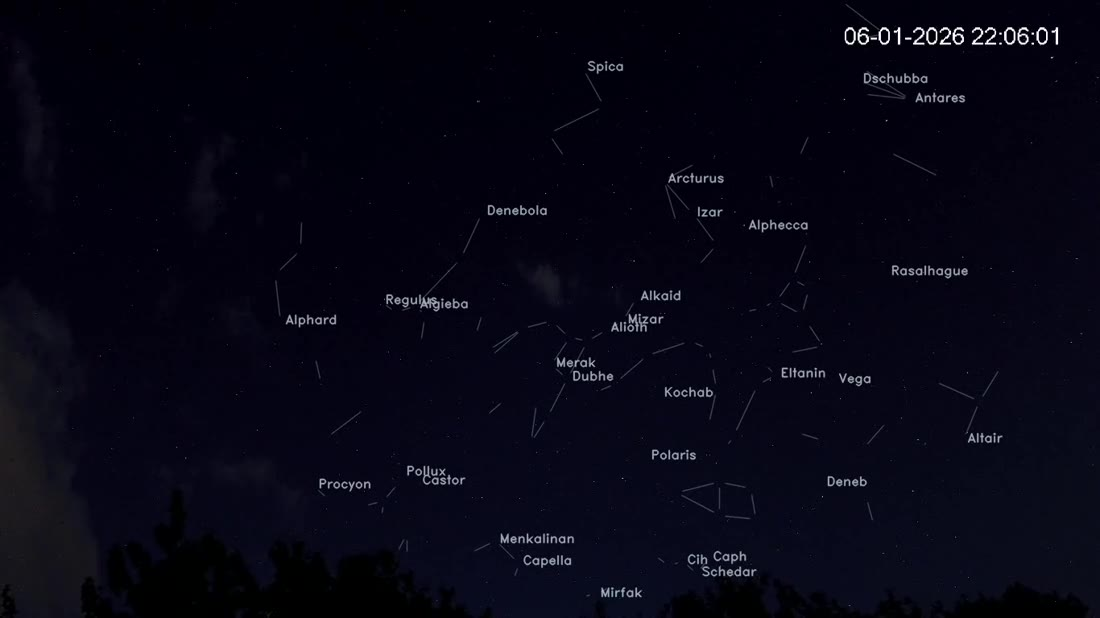
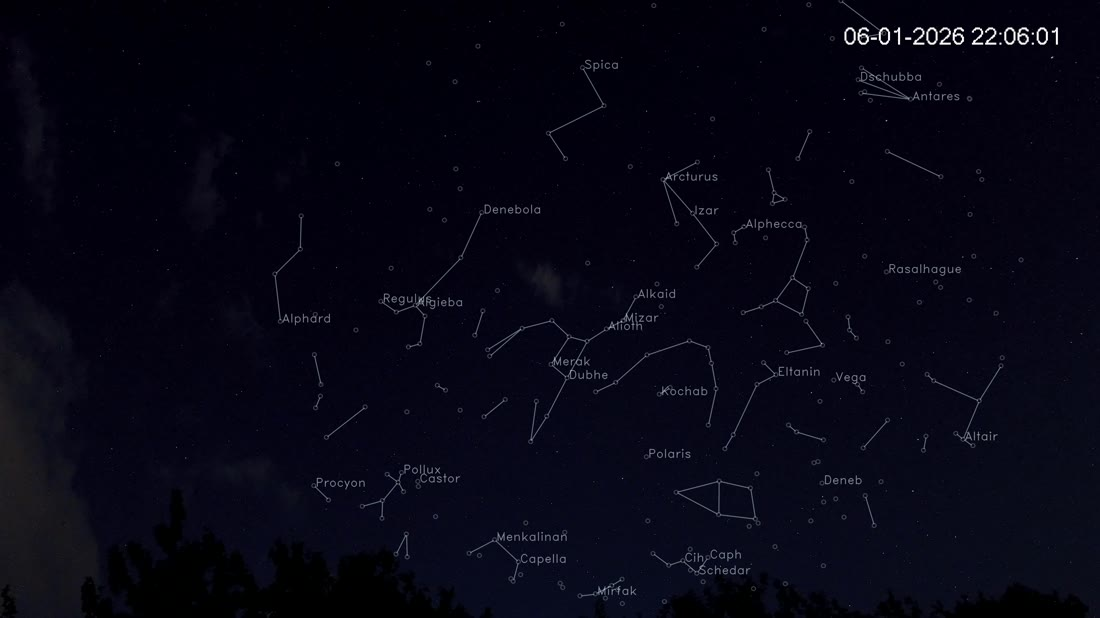
Video overlay: native 4K, thin lines to the stars, subtle optional rings
Render the overlay video at the input's native resolution (4K here, was 1366px)
for a quality match; thin 1px-class lines with a tiny gap so they clearly run up
to each star (alignment is now obvious); and a small faint ring around each
identified star — Sky-Guide style, toggleable via render_video(star_rings=...)
or the example's --no-rings flag.

diff --git a/starguide/overlay.py b/starguide/overlay.py
@@ -373,9 +373,14 @@ def annotate_image(sky_image, max_mag=None, style="auto", width=None,
     return vis
 
 
-def render_video(video_path, out_path, sky, max_mag=4.2, width=1366):
+def render_video(video_path, out_path, sky, max_mag=4.2, width=None,
+                 star_rings=True):
     """Realtime overlay video: every frame is one sidereal rotation + a poly
-    eval, demonstrating that after the one-time solve, tracking is ~free."""
+    eval, demonstrating that after the one-time solve, tracking is ~free.
+
+    `star_rings` draws a small, faint ring around each identified star (the
+    Sky-Guide touch — also a quick visual check that the dot really is that star);
+    set False for lines + labels only."""
     import time
     from .astro import load_catalog, horizon_altaz, load_constellations
     from .project import azimuthal_equidistant, rotate_uv
@@ -405,9 +410,14 @@ def render_video(video_path, out_path, sky, max_mag=4.2, width=1366):
 
     cap = cv2.VideoCapture(video_path)
     fps = cap.get(5)
-    OW = width; OH = int(OW * H / W); sc = OW / W
+    OW = width or W            # default: render at the input's native resolution
+    OH = int(OW * H / W); sc = OW / W
     s2 = OW / 1100.0
-    gap, lt, fs = 6.0 * s2, max(1, round(s2)), 0.42 * s2   # line gap, thickness, font
+    # thin crisp lines, a tiny gap so they clearly run up to each star, and a
+    # font that scales with the (now full-HD) render. `rr`/`rt` size the subtle
+    # star rings.
+    gap, lt, fs = 1.6 * s2, max(1, round(s2 * 0.55)), 0.4 * s2
+    rr, rt = max(2, round(2.1 * s2)), max(1, round(s2 * 0.5))
     out = cv2.VideoWriter(out_path, cv2.VideoWriter_fourcc(*"mp4v"), fps, (OW, OH))
     idx = 0; proj_us = []
     while True:
@@ -432,7 +442,14 @@ def render_video(video_path, out_path, sky, max_mag=4.2, width=1366):
                     p, q = _gapped(pos[a], pos[b], gap)
                     if p is not None:
                         cv2.line(layer, p, q, LINE, lt, cv2.LINE_AA)
-        vis = cv2.addWeighted(layer, 0.32, vis, 0.68, 0)
+        vis = cv2.addWeighted(layer, 0.5, vis, 0.5, 0)    # thin crisp lines, visible
+        if star_rings:                                    # subtle ring per star
+            rl = vis.copy()
+            for i in range(len(stars)):
+                if on[i]:
+                    cv2.circle(rl, (int(px[i] * sc), int(py[i] * sc)), rr, STAR,
+                               rt, cv2.LINE_AA)
+            vis = cv2.addWeighted(rl, 0.28, vis, 0.72, 0)
         tlayer = vis.copy()
         for i, s in enumerate(stars):
             if on[i] and s.mag < 2.4 and not s.name.startswith(("HIP", "HR ")):

diff --git a/examples/video/identify_video.py b/examples/video/identify_video.py
@@ -74,7 +74,7 @@ def main():
         print("not a fixed-camera clip (no usable star motion) — "
               "re-run with --stream to overlay it the general way")
         return
-    us, n = render_video(source, out, sky)
+    us, n = render_video(source, out, sky, star_rings="--no-rings" not in flags)
     print(f"wrote {out}  ({n} frames, {1e6 / us:.0f} fps projection after solve)")
 
 